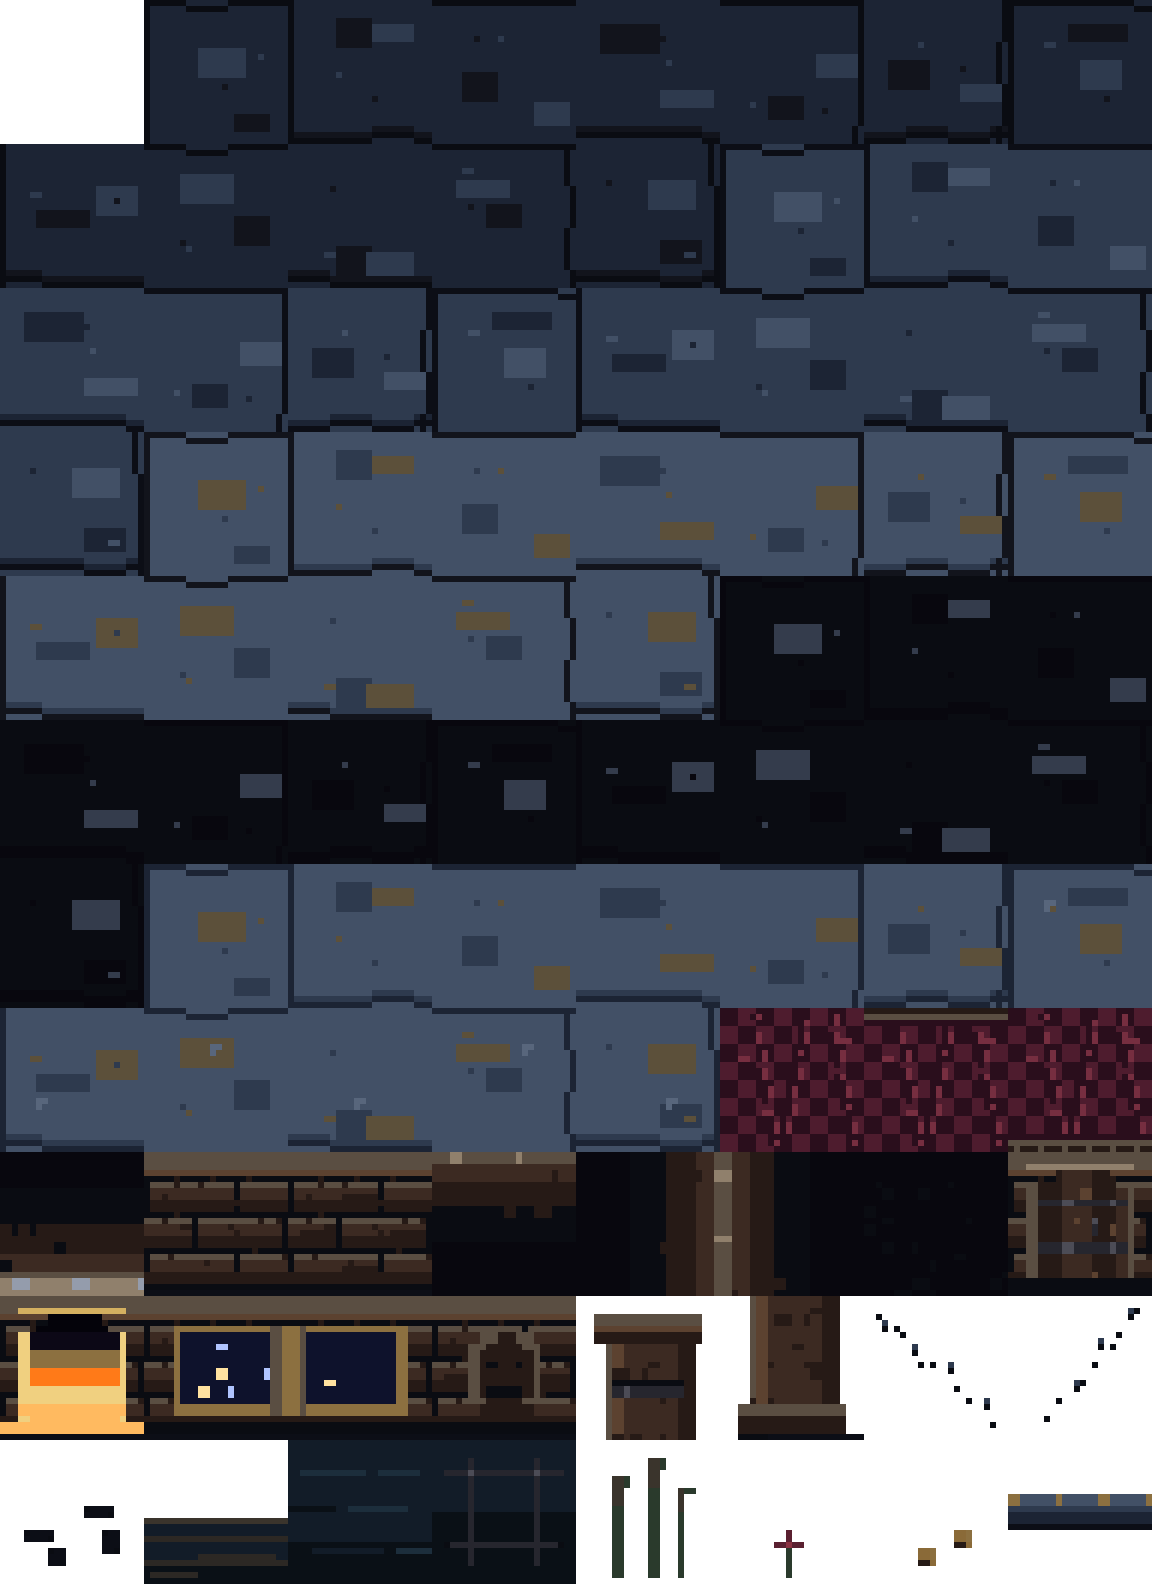
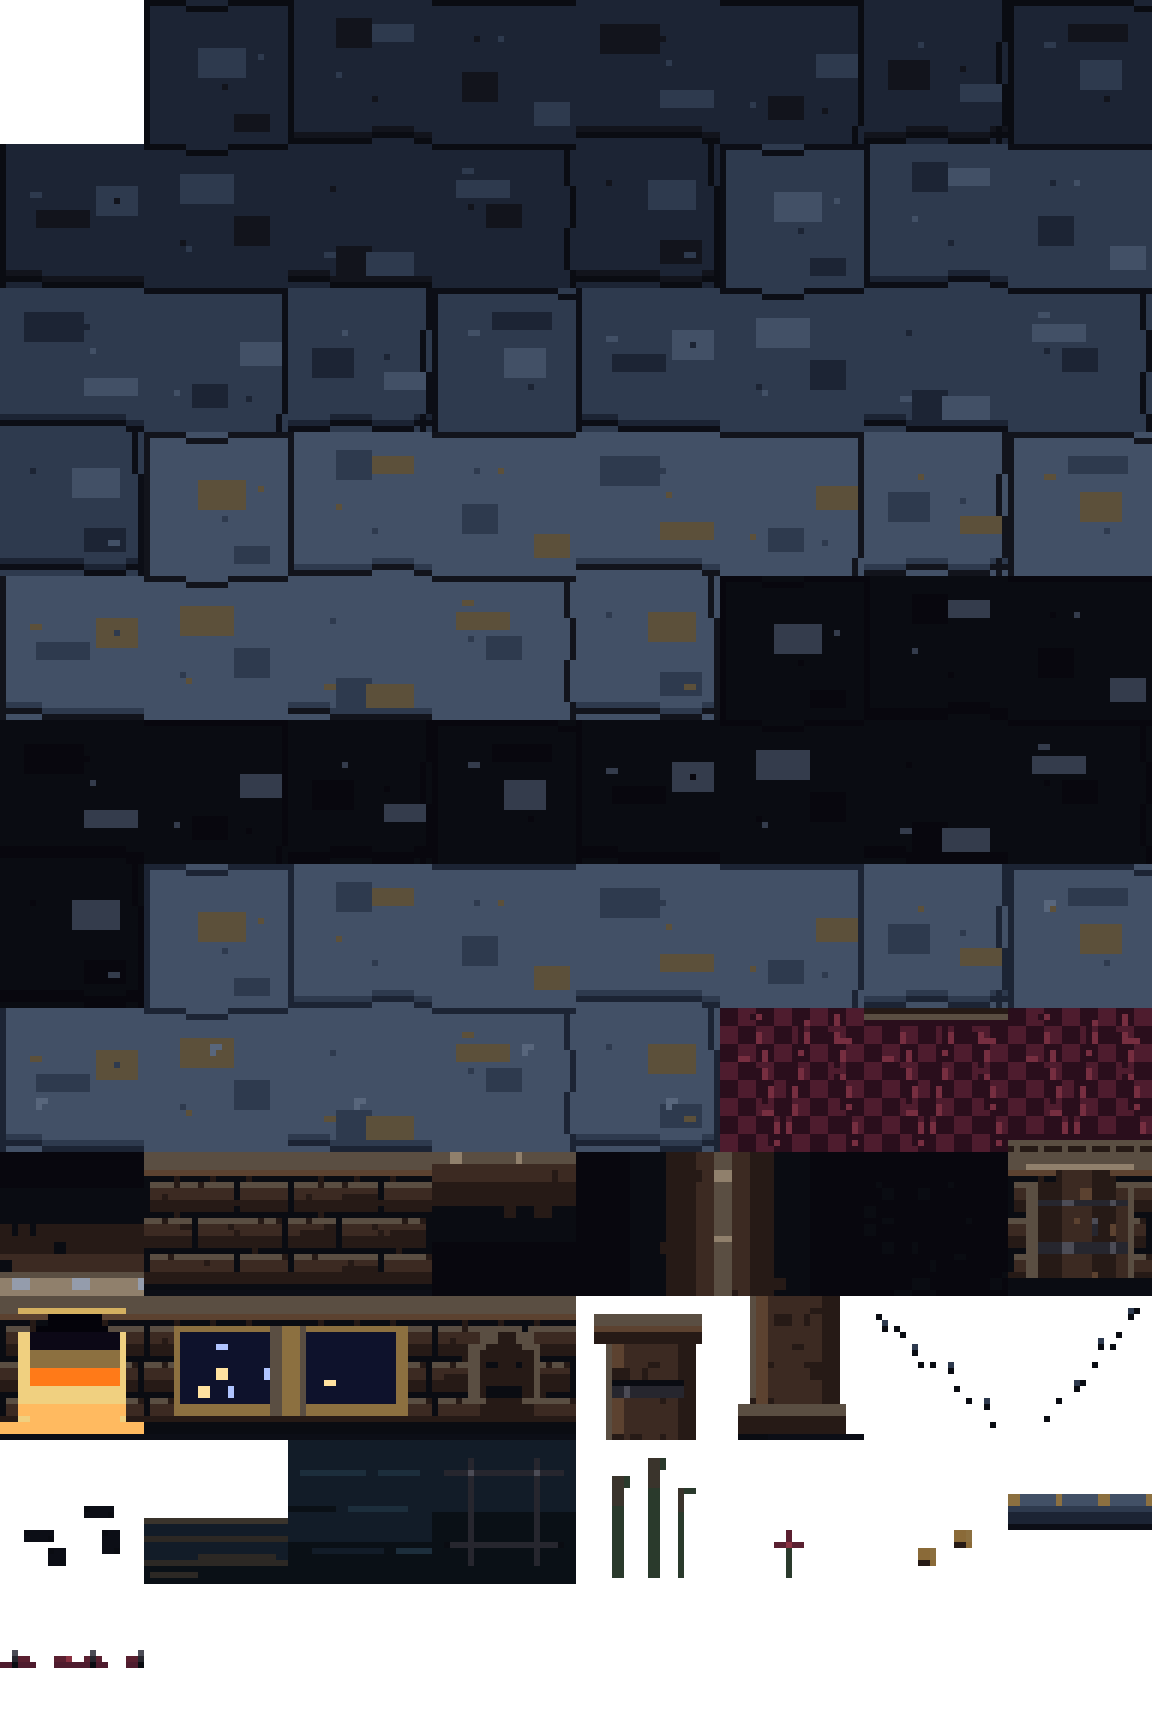
art: give Minos a court of judgment

diff --git a/tools/make-bardo-tiles.ts b/tools/make-bardo-tiles.ts
@@ -559,6 +559,24 @@ function beamTile(): Uint8Array {
   return t.d
 }
 
+// The sentence beneath Minos: a narrow wax-red rule, not a carpet and not a glowing hazard. It is
+// transparent over the floor and broken at a deliberate cadence, so five cells read as one ritual
+// mark without becoming a UI divider. Wine carries the verdict; iron pins keep it archaeological.
+function verdictTile(): Uint8Array {
+  const t = makeTile()
+  t.fill(P.void, 0)
+  for (let x = 0; x < ROOM_CELL; x++) {
+    if ((x >= 6 && x <= 8) || (x >= 18 && x <= 20)) continue
+    t.pixel(x, 13, P.purple1)
+    if (x % 6 >= 2 && x % 6 <= 4) t.pixel(x, 12, P.poppy)
+  }
+  for (const x of [2, 15, 23]) {
+    t.pixel(x, 11, P.ironHi); t.pixel(x, 12, P.iron); t.pixel(x, 13, P.mortar)
+  }
+  t.pixel(11, 12, P.poppyHot)
+  return t.d
+}
+
 // TRANSPARENT (ADR 0001): the screen-space starfield underlay is the sky between an island
 // room's masses, and an opaque baked void tile would freeze a second one. The sheet carries
 // the invariant, so the renderer bakes every base cell with no per-tile branch.
@@ -585,6 +603,7 @@ tiles.push(
   /* 78 */ crackTile(0), /* 79 */ crackTile(1), /* 80 */ pitTile(),
   /* 81 */ siltTile(), /* 82 */ waterTile(), /* 83 */ grateTile(),
   /* 84 */ reedTile(), /* 85 */ poppyTile(), /* 86 */ coinTile(), /* 87 */ beamTile(),
+  /* 88 */ verdictTile(),
 )
 
 const ROWS = Math.ceil(tiles.length / COLS)
@@ -1099,6 +1118,49 @@ function veteranRelic32(): Uint8Array {
   return d
 }
 
+// A broken verdict tablet in the Hall of Minos. It is evidence, not decoration: an austere stone
+// stele whose incised balance has been struck through in wine wax. The asymmetric crown and one
+// missing corner keep it archaeological instead of heraldic; no gold, because judgment is not a
+// crossing or a reward. The tablet stays dark enough to sit behind the fight.
+function verdictStele32(): Uint8Array {
+  const { d, set, pixel } = make32()
+  for (let x = 6; x <= 27; x++) set(x, 30, P.grout)
+  for (let x = 8; x <= 25; x++) set(x, 29, P.mortar)
+  // Two-step foot, with the north/left key and east/south terminator kept explicit.
+  for (let y = 25; y <= 28; y++) for (let x = 7; x <= 25; x++) {
+    let col: C = P.slate0
+    if (y === 25 || x <= 8) col = P.slate2
+    if (y === 28 || x >= 24) col = P.mortar
+    set(x, y, col)
+  }
+  // The slab: broken higher at west, bitten away at the north-east corner.
+  for (let y = 5; y <= 24; y++) {
+    const left = y < 7 ? 11 : y < 9 ? 9 : 8
+    const right = y < 6 ? 17 : y < 8 ? 21 : y < 11 ? 23 : 24
+    for (let x = left; x <= right; x++) {
+      let col: C = P.slate1
+      if (x === left || y === 5) col = P.slate2
+      if (x >= right - 1 || y === 24) col = P.slate0
+      if ((x === 10 && y >= 17) || (x === 20 && y >= 8 && y <= 10)) col = P.mortar
+      set(x, y, col)
+    }
+  }
+  // An incised balance: iron shadow under a cold worn edge, deliberately incomplete.
+  for (let y = 10; y <= 20; y++) { set(15, y, P.ironHi); set(16, y, P.iron) }
+  for (let x = 10; x <= 21; x++) { set(x, 12, P.ironHi); set(x, 13, P.iron) }
+  for (const x of [10, 21]) {
+    set(x, 14, P.iron); set(x, 15, P.iron)
+    for (let dx = -2; dx <= 2; dx++) set(x + dx, 17, dx === -2 ? P.ironHi : P.iron)
+  }
+  // The surviving verdict: one wax strike, warm enough to read but never as bright as combat.
+  for (let i = 0; i < 6; i++) { set(17 + i, 19 + Math.floor(i / 2), P.poppy); set(17 + i, 20 + Math.floor(i / 2), P.purple1) }
+  set(20, 20, P.poppyHot)
+  // Native-source fractures keep the face from reading as a UI icon.
+  pixel(18, 14, P.slate3); pixel(19, 15, P.slate3)
+  pixel(34, 34, P.mortar); pixel(35, 35, P.mortar); pixel(34, 36, P.slate0)
+  return d
+}
+
 function pan32(): Uint8Array {
   const { d, set } = make32()
   for (let x = 6; x < 26; x++) set(x, 28, P.grout)
@@ -1118,6 +1180,7 @@ const props32 = [
   brazier32(), ossuary32(), shard32(), pew32(),
   reed32(), prow32(), pole32(), pan32(),
   keeperLamp32(), brazierCold32(), veteranRelic32(),
+  verdictStele32(),
 ]
 const pRows = Math.ceil(props32.length / PCOLS)
 const pSheet = Buffer.alloc(PCOLS * PROP_CELL * pRows * PROP_CELL * 4)

diff --git a/src/sim/dress.ts b/src/sim/dress.ts
@@ -79,8 +79,10 @@ function dressMinos(a: Arena): void {
   // A scale, not a stripe. Short beam north-west of the circle; two pans at
   // different heights. Wine light, not hell-orange. (13, 8) stays bare.
   for (let c = 6; c <= 12; c++) stamp(a, c, 6, T.beam)
+  for (let c = 11; c <= 15; c++) stamp(a, c, 5, T.verdict)
   prop(a, 4, 11, PROP.pan)
   prop(a, 22, 12, PROP.pan)
+  prop(a, 18, 4, PROP.verdictStele)
   stamp(a, 21, 11, T.poppy)
   if (a.windows[0]) { a.windows[0].strength = 0.4; a.windows[0].tint = 0xb03010 }
   if (a.braziers[0]) { a.braziers[0].strength = 1.15; a.braziers[0].tint = 0xb03010 }
@@ -91,8 +93,10 @@ function dressMinosEast(a: Arena): void {
   // The same Hall, the beam sitting the other way. One poppy still, on the west pan.
   // (13, 8) stays bare.
   for (let c = 14; c <= 20; c++) stamp(a, c, 6, T.beam)
+  for (let c = 11; c <= 15; c++) stamp(a, c, 5, T.verdict)
   prop(a, 22, 11, PROP.pan)
   prop(a, 4, 12, PROP.pan)
+  prop(a, 8, 4, PROP.verdictStele)
   stamp(a, 5, 11, T.poppy)
   if (a.windows[0]) { a.windows[0].strength = 0.4; a.windows[0].tint = 0xb03010 }
   if (a.braziers[0]) { a.braziers[0].strength = 0.18; a.braziers[0].tint = 0x4a2018 }

diff --git a/tests/sim/dress.test.ts b/tests/sim/dress.test.ts
@@ -76,6 +76,10 @@ describe('first-gate dress', () => {
     expect(asphodel.overlay.includes(T.poppy)).toBe(true)
     expect(minos.overlay.includes(T.poppy)).toBe(true)
     expect(minosEast.overlay.includes(T.poppy)).toBe(true)
+    expect(minos.overlay.filter(t => t === T.verdict)).toHaveLength(5)
+    expect(minosEast.overlay.filter(t => t === T.verdict)).toHaveLength(5)
+    expect(minos.props.some(p => p.tile === PROP.verdictStele)).toBe(true)
+    expect(minosEast.props.some(p => p.tile === PROP.verdictStele)).toBe(true)
     expect(minos.props.filter(p => p.tile === PROP.pan)).toHaveLength(2)
     expect(minosEast.props.filter(p => p.tile === PROP.pan)).toHaveLength(2)
     expect(minos.overlay[8 * minos.cols + 13]).toBeLessThan(0)

diff --git a/src/sim/arena.ts b/src/sim/arena.ts
@@ -24,7 +24,7 @@ export const T = {
   doorClosed: 71, doorOpen: 72, windowL: 73, windowR: 74, relief: 75,
   pillarTop: 76, pillarBase: 77,
   crackA: 78, crackB: 79, pit: 80,
-  silt: 81, water: 82, grate: 83, reed: 84, poppy: 85, coin: 86, beam: 87,
+  silt: 81, water: 82, grate: 83, reed: 84, poppy: 85, coin: 86, beam: 87, verdict: 88,
 } as const
 
 // Indices into the bardo_props sheet (4 columns, 48×48 source / 32×32 logical). The first four
@@ -34,6 +34,7 @@ export const PROP = {
   brazier: 4, ossuary: 5, shard: 6, pew: 7,
   reed: 8, prow: 9, pole: 10, pan: 11,
   keeperLamp: 12, brazierCold: 13, veteranRelic: 14,
+  verdictStele: 15,
 } as const
 
 export type RoomKind = 'bardo' | 'threshold' | 'crossing' | 'shore'

diff --git a/tests/art/pipeline.test.ts b/tests/art/pipeline.test.ts
@@ -367,7 +367,7 @@ describe('code-generated sheets', () => {
   it('locks the native 24px room and 48px prop source contracts', async () => {
     const room = await sharp('public/assets/sprites/bardo_room.png').metadata()
     const props = await sharp('public/assets/sprites/bardo_props.png').metadata()
-    expect([room.width, room.height]).toEqual([8 * 24, 11 * 24])
+    expect([room.width, room.height]).toEqual([8 * 24, 12 * 24])
     expect([props.width, props.height]).toEqual([4 * 48, 4 * 48])
   })
 

diff --git a/tools/room-art-gates.ts b/tools/room-art-gates.ts
@@ -186,7 +186,7 @@ async function runtime(url: string, shotDir?: string): Promise<RuntimeRoom[]> {
   return rooms
 }
 
-await sourceSheet('public/assets/sprites/bardo_room.png', 8 * 24, 11 * 24)
+await sourceSheet('public/assets/sprites/bardo_room.png', 8 * 24, 12 * 24)
 await sourceSheet('public/assets/sprites/bardo_props.png', 4 * 48, 4 * 48)
 await materialSpan()
 negativeSpace(buildArena(new Rng(1), 'bardo'))

diff --git a/MORNING_REPORT.md b/MORNING_REPORT.md
@@ -43,7 +43,9 @@ Shipping art in this branch is code-authored and reproducible. The dagger and he
 unapproved pipeline candidates, not player identity. ImageGen was used aggressively for composition,
 material, control-strip, procession, and fallen-relic studies; no generated pixels were promoted to
 `public/` or the approved catalogue. The admitted relic was redrawn through `tools/make-bardo-tiles.ts`
-using 10 canonical colours, binary alpha, and a 12-colour cap. `pnpm art approve` was not run.
+using 10 canonical colours, binary alpha, and a 12-colour cap. The Hall of Minos study likewise
+stayed reference-only: its admitted result is one code-authored verdict stele and one transparent
+wax-red sentencing rule in the native sheets. `pnpm art approve` was not run.
 
 The candidate constraints are in `docs/CHARACTER_HARD_CONSTRAINTS.md`. Dagger and heavy armor each
 render 42 frames across south/north/east, six compiled sheets in total, computed sockets, 1× floor
@@ -54,7 +56,7 @@ pipeline and silhouette constraints, not the final identity or Look.
 
 The curated exact-head title, arrival, descent, first-fight, and viewport frames are tracked in
 `public/progress/shots/` as `title-menu.png`, `bardo-arrival-r7.png`, `descent-r7-*.png`, and
-`first-fight-r7.png`, `acheron-shore-r7.png`, `cocytus-weep-r7.png`, plus `viewport-390x844-*.png` and
+`first-fight-r7.png`, `acheron-shore-r7.png`, `cocytus-weep-r7.png`, `minos-verdict-r7.png`, plus `viewport-390x844-*.png` and
 `viewport-900x506-title-r7.png`. The broader scratch study remains local and intentionally ignored under
 `shots/attended/`:
 
@@ -65,6 +67,7 @@ The curated exact-head title, arrival, descent, first-fight, and viewport frames
 - `combat-*.png` and `replay-contact-strip.png`: Acheron, Lethe, Asphodel, Phlegethon, the
   Antechamber, Minos, and contact cadence.
 - `viewport-*`: 390×844 portrait, 900×506, 1280×720, 1920×1080, and fullscreen.
+- `ui/`: title Settings/Credits and pause menu/Settings at native, portrait, and wide desktop sizes.
 - `exact-head-room-gates/`: exact room composites and numeric gate results.
 
 Objective observations: the causeway centre now measures roughly twice the perimeter value; the
@@ -82,9 +85,14 @@ byte-identical across independent boots at SHA-256
 At Cocytus, a single cold reflection now belongs to the west-edge weep and expires before the dry
 fight circle; its floor and dark are paler and more cyan than Acheron's indigo river. The deterministic
 realm-air pass moves Acheron/Cocytus from distance 1.09 to 3.36 and outside the closest pair; median
-room separation rises from 10.54 to 11.32 with no wrong-temperature rooms. The exact
+room separation rose from 10.54 to 11.32; after the final Minos dress the exact-head median is
+11.31, still with no wrong-temperature rooms. The exact
 combat exhibit is byte-identical at SHA-256
[1 lines of base64/hex data omitted]
+At Minos, the existing unequal scale now answers a broken verdict stele and a narrow wax-red sentence
+beneath the Judge. Both are non-solid dress behind the fight lanes; the stele spends no gold and the
+circle at `(13, 8)` remains bare. The exact tick-3,000 combat exhibit is byte-identical across clean
[1 lines of base64/hex data omitted]
 
 Subjective questions left deliberately open: whether the causeway has the desired emotional weight,
 whether the Veteran relic is poignant rather than merely legible, whether combat reads as satisfying
@@ -103,8 +111,8 @@ user-only gates.** No agent or automated play awarded them.
 | Browser smoke | `pnpm smoke -- --url http://localhost:5201` green, real keyboard and both endings |
 | Viewport transitions | `pnpm smoke:viewport -- --url http://localhost:5201` green through 640×360 → 1400×600 → 390×844 → 1920×700 → 900×506 → 640×360 for both title and game HUD; target and UI bounds remain contained, tick stays 0 |
 | Room art | `pnpm room:gate` green, including dimensions, alpha, palette, material spans, negative space, value, highlights, and focality |
-| Realm separation | `pnpm realm-air -- --url http://localhost:5201` owns every render; three clean-room outputs are byte-identical. Median RGB distance 11.32, closest 2.95, widest 16.91, zero temperature violations; no arbitrary pass threshold invented |
-| Regeneration | `pnpm palette` and `pnpm tiles` deterministic; no unexplained drift |
+| Realm separation | `pnpm realm-air -- --url http://localhost:5201` owns every render; three clean-room outputs are byte-identical. Median RGB distance 11.31, closest 2.95, widest 16.91, zero temperature violations; no arbitrary pass threshold invented |
+| Regeneration | `pnpm palette` and `pnpm tiles` deterministic; the 192×288 room sheet and 192×192 prop sheet regenerate byte-identically with no unexplained drift |
 | Shipping sprite gates | 78/3 waived general, 144/2 hero, 144/4 north, 40/1 north roll, 145/2 south, 40/1 south roll; zero blocking |
 | Candidate stress | `pnpm art:stress-hero` green for dagger and heavy; candidate-only |
 | Desktop | `pnpm desktop:build` green; isolated `pnpm smoke:desktop` green across 23 checks and 6 launches |

diff --git a/VERTICAL_SLICE_PLAN.md b/VERTICAL_SLICE_PLAN.md
@@ -42,8 +42,10 @@ contracts, while ImageGen studies remain reference-only. Acheron's lower lane no
 art bible's promised shore as one silt lip over a two-tile dark-water body without changing any
 solid. Cocytus now gives its west-edge weep one cold reflection that expires before the dry fight
 circle, and a paler cyan surface distinct from Acheron's indigo. The deterministic measured median
-realm separation is 11.32 with no wrong-temperature rooms. Look and Fun
+realm separation is 11.31 with no wrong-temperature rooms. Look and Fun
 remain human gates. The
+Hall of Minos now keeps its unequal scale but gains a broken, goldless verdict stele and a narrow
+wax-red sentence behind the boss, without marking the fight circle or changing collision. The
 letterbox and target sky now enter the shared frame grade from identical authored colours; exact
 390×844 and 900×506 probes keep all four target boundaries continuous. The attended evidence and
 exact-head ledger are recorded in `MORNING_REPORT.md`.
